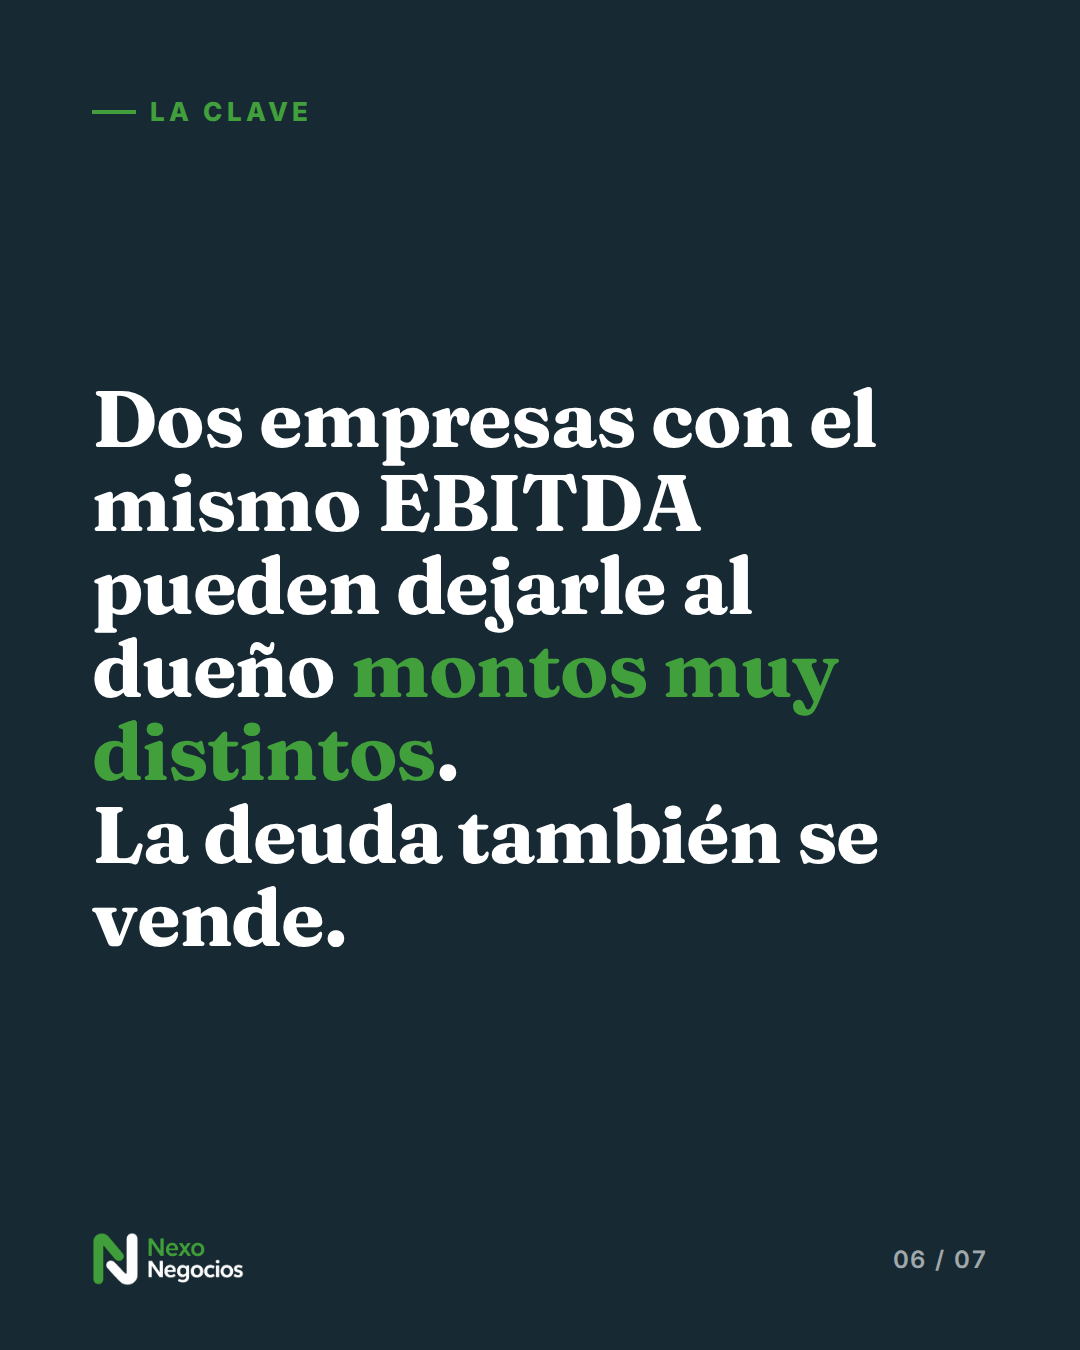
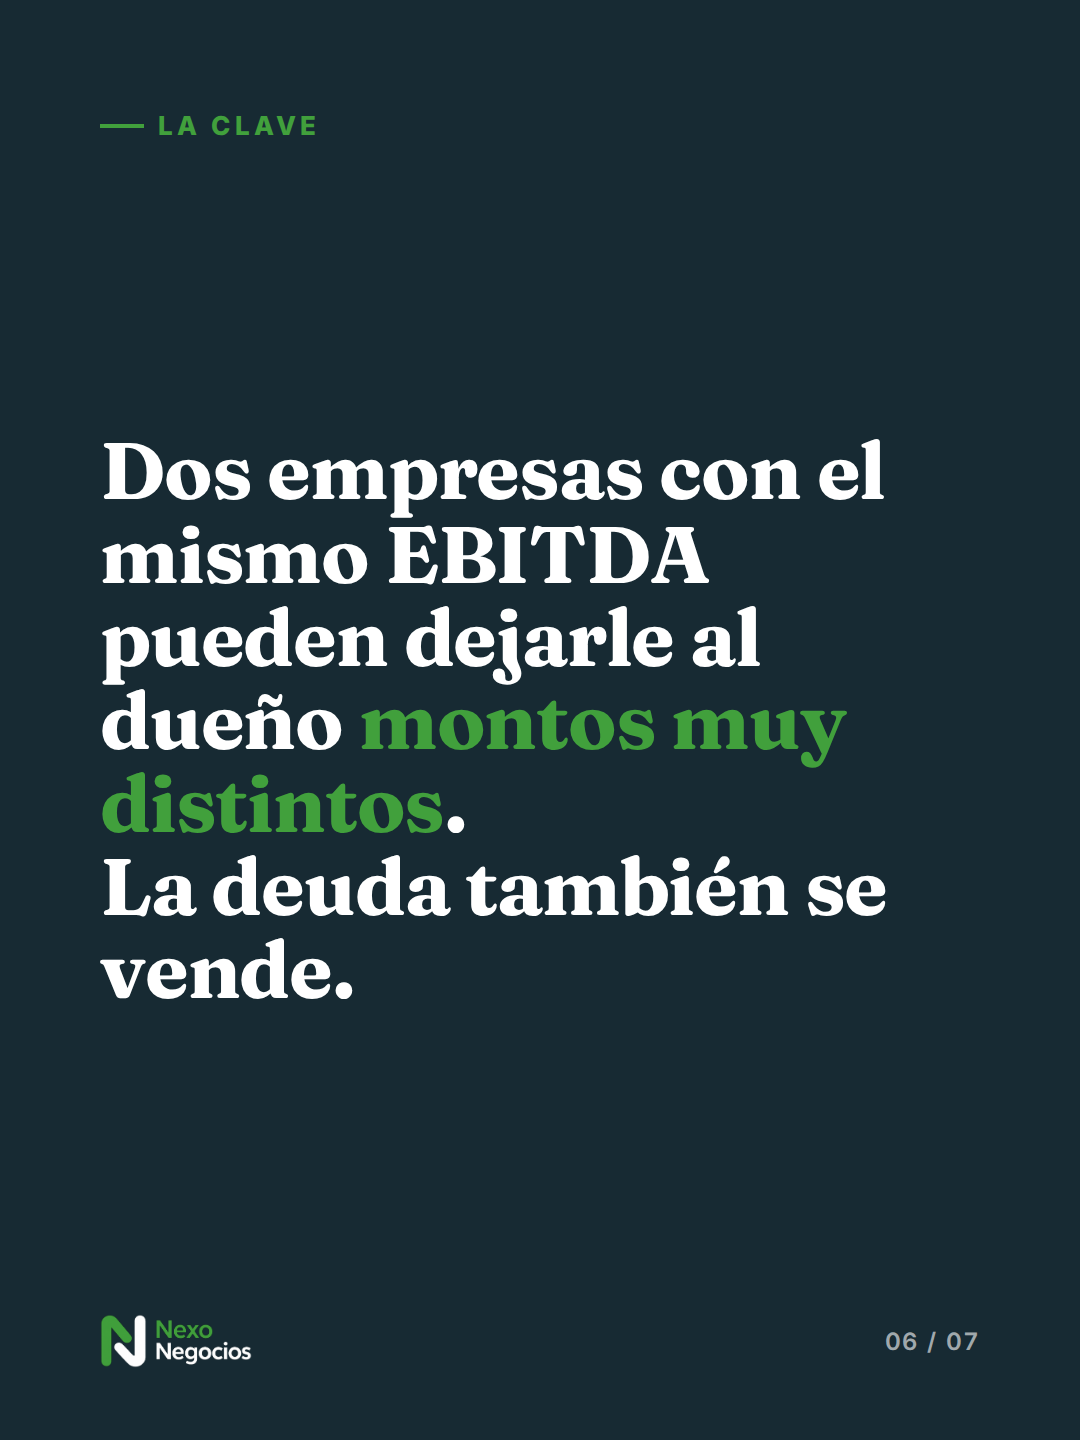
Carruseles en 3:4 (1080x1440) para que no se recorten en la cuadrícula
Instagram muestra la cuadrícula del perfil en 3:4 y recortaba los
costados de las piezas 4:5.

Claude-Session: https://claude.ai/code/session_01BriaWdxzr6W7ebjU6EYYAm

diff --git a/SKILL.md b/SKILL.md
@@ -55,7 +55,7 @@ Una vez por mes, el reel del viernes de la semana 3 es una **empresa en venta** 
 
 ## 5. Cómo se escribe cada formato
 
-**Carrusel (1080×1350):** portada con promesa concreta → desarrollo (un concepto por slide) → slide «clave» con la idea en una frase → cierre con resumen y firma. Siempre 6 a 8 slides.
+**Carrusel (1080×1440, formato 3:4: así se ve completo también en la cuadrícula del perfil):** portada con promesa concreta → desarrollo (un concepto por slide) → slide «clave» con la idea en una frase → cierre con resumen y firma. Siempre 6 a 8 slides.
 
 **Reel (1080×1920, sin voz):** gancho que contradice una creencia o muestra un número (máx. 15 palabras) → 3-4 escenas de desarrollo → cierre. Texto grande, pocas palabras por escena. La música se agrega en Instagram.
 
